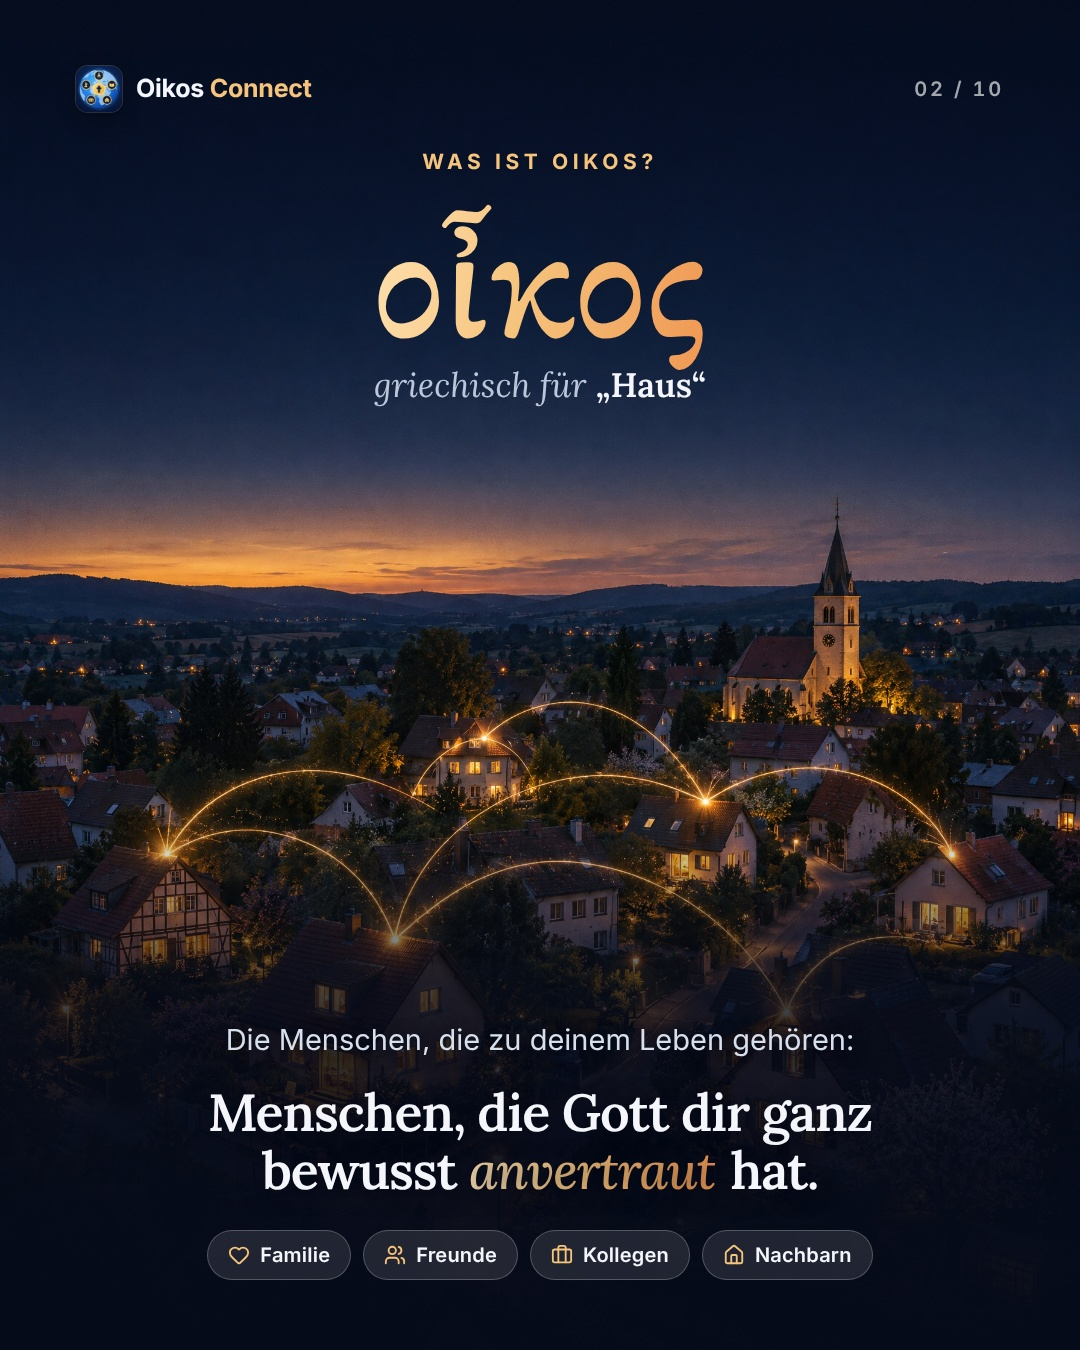
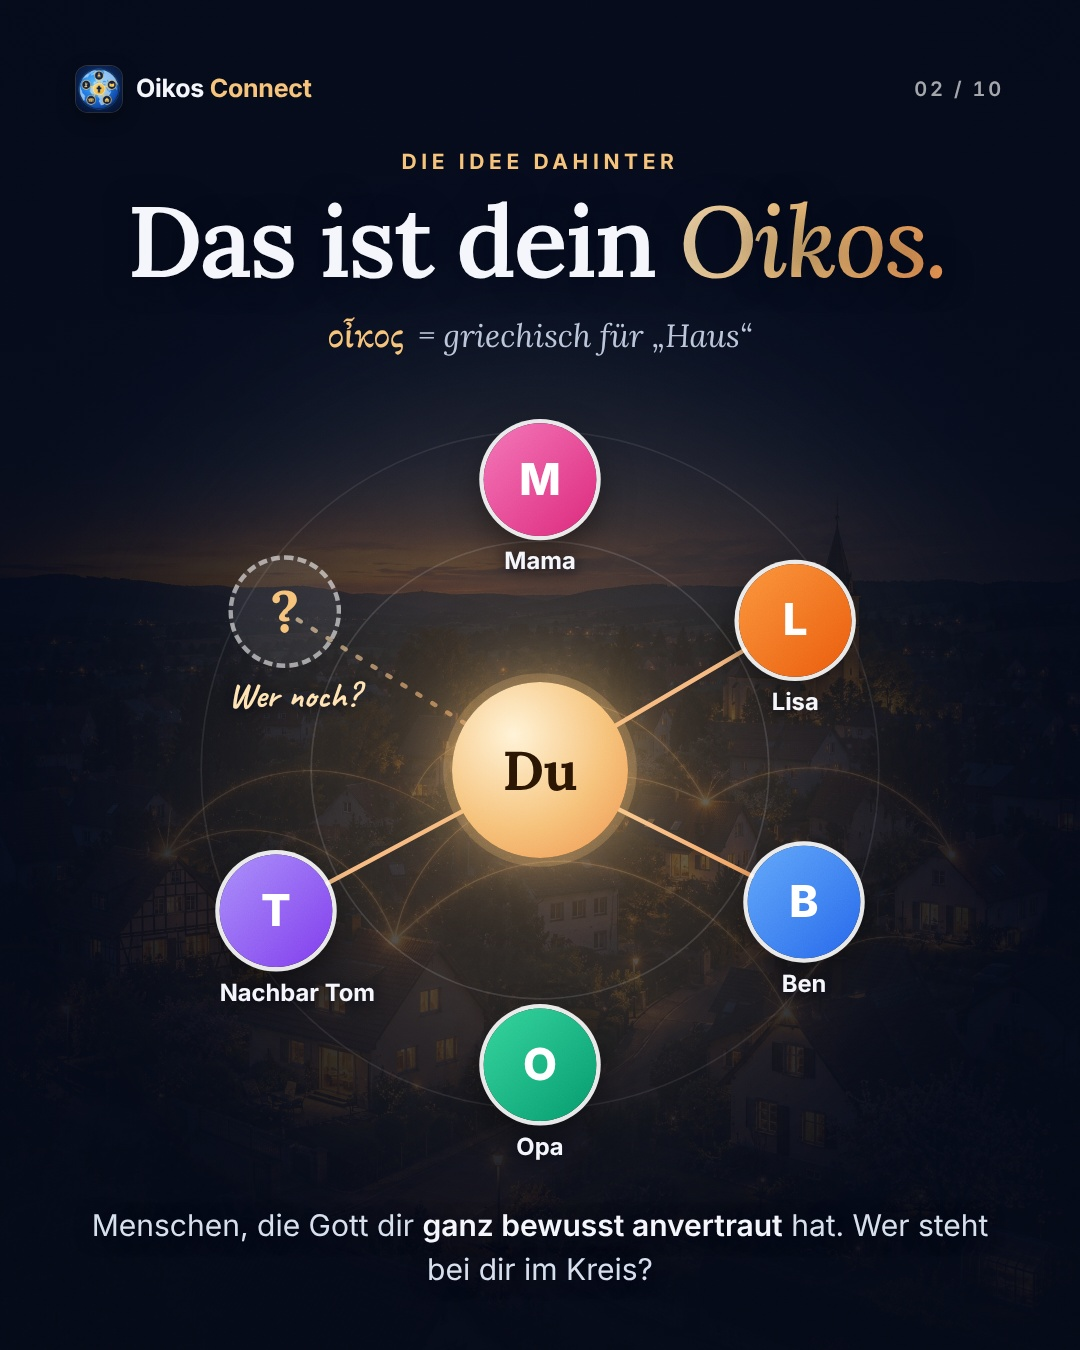
Post 001: neue Slides 1 und 2 (Hook-Frage und Mini-Oikos-Karte), Caption angepasst
Claude-Session: https://claude.ai/code/session_01JoDvWm4GYG7TTW7KF229oX

diff --git a/marketing/social/posts/001-launch/slides.html b/marketing/social/posts/001-launch/slides.html
@@ -7,37 +7,48 @@
 <script src="../../brand/icons.js"></script>
 <script src="../../brand/deck.js"></script>
 <style>
-  /* ═════════ Slide 1 · Hook ═════════ */
-  .s1 .shade { background: linear-gradient(180deg, rgba(5,10,24,.82) 0%, rgba(5,10,24,.5) 30%, rgba(5,10,24,0) 50%, rgba(5,10,24,0) 70%, rgba(5,10,24,.7) 100%); }
-  .s1 .content { position: absolute; left: var(--pad-x); right: var(--pad-x); top: 178px; }
-  .s1 .h1 { margin-top: 30px; font-size: 88px; }
-  [data-f="tt"] .s1 .content { top: 300px; }
-  [data-f="tt"] .s1 .h1 { font-size: 104px; margin-top: 36px; }
+  /* ═════════ Slide 1 · Hook (Frage, die man nicht überlesen kann) ═════════ */
+  .s1 .bg img { transform: translateY(170px) scale(1.1); transform-origin: 50% 100%; }
+  .s1 .shade { background: linear-gradient(180deg, rgba(5,10,24,.94) 0%, rgba(5,10,24,.78) 34%, rgba(5,10,24,.15) 58%, rgba(5,10,24,0) 70%, rgba(5,10,24,.75) 100%); }
+  .s1 .content { position: absolute; left: var(--pad-x); right: var(--pad-x); top: 168px; }
+  .s1 .tag { display: inline-flex; align-items: center; gap: 12px; height: 56px; padding: 0 26px; border-radius: 999px; background: linear-gradient(100deg, var(--gold-light), var(--gold) 50%, var(--gold-2)); color: #2a1503; font-weight: 800; font-size: 24px; letter-spacing: .08em; text-transform: uppercase; transform: rotate(-2deg); box-shadow: 0 14px 40px rgba(246,193,119,.35); }
+  .s1 .h1 { margin-top: 34px; font-size: 92px; line-height: 1.02; letter-spacing: -.028em; }
+  .s1 .h1 .mark { position: relative; white-space: nowrap; }
+  .s1 .h1 .mark::after { content: ''; position: absolute; left: -1%; right: -1%; bottom: .03em; height: .075em; border-radius: 99px; background: linear-gradient(90deg, var(--gold-light), var(--gold-2)); transform: rotate(-1.2deg); }
+  .s1 .side { margin-top: 30px; font-family: var(--hand); font-weight: 700; font-size: 52px; line-height: 1.05; color: var(--gold-light); transform: rotate(-2deg); transform-origin: left; text-shadow: 0 2px 24px rgba(3,8,22,.8); }
+  .s1 .swipe-big { position: absolute; z-index: 10; right: var(--pad-x); bottom: var(--safe-bottom); display: inline-flex; align-items: center; gap: 14px; height: 76px; padding: 0 20px 0 34px; border-radius: 999px; background: rgba(255,255,255,.96); color: #0b1330; font-weight: 800; font-size: 28px; box-shadow: 0 18px 50px rgba(0,0,0,.45); }
+  .s1 .swipe-big i { width: 48px; height: 48px; border-radius: 50%; background: var(--ink); color: var(--gold); font-size: 26px; }
+  [data-f="tt"] .s1 .bg img { transform: translateY(260px) scale(1.1); }
+  [data-f="tt"] .s1 .content { top: 290px; }
+  [data-f="tt"] .s1 .h1 { font-size: 106px; }
+  [data-f="tt"] .s1 .side { font-size: 58px; }
+  [data-f="tt"] .s1 .swipe-big { bottom: 430px; }
+  [data-f="tt"] .s1 .shade { background: linear-gradient(180deg, rgba(5,10,24,.94) 0%, rgba(5,10,24,.78) 36%, rgba(5,10,24,.1) 56%, rgba(5,10,24,0) 70%, rgba(5,10,24,.55) 100%); }
 
-  /* ═════════ Slide 2 · Was ist Oikos? ═════════ */
-  .s2 .bg img { object-position: center bottom; }
-  .s2 .shade { background:
-      linear-gradient(180deg, rgba(5,10,24,.7) 0%, rgba(5,10,24,.25) 32%, rgba(5,10,24,0) 42%, rgba(5,10,24,0) 60%, rgba(5,10,24,.78) 74%, rgba(5,10,24,.96) 90%, rgba(5,10,24,.98) 100%); }
-  .s2 .top { position: absolute; left: var(--pad-x); right: var(--pad-x); top: 150px; text-align: center; }
-  .s2 .greek { font-family: 'Greek Serif', var(--serif); font-weight: 500; font-size: 176px; line-height: 1.05; margin-top: 6px; }
-  .s2 .greek span { background: linear-gradient(100deg, var(--gold-light), var(--gold) 45%, var(--gold-2)); -webkit-background-clip: text; background-clip: text; color: transparent; padding: 0 .06em; }
-  .s2 .means { font-family: var(--serif); font-style: italic; font-size: 34px; color: var(--muted); margin-top: -2px; }
-  .s2 .means b { font-style: normal; color: var(--text); font-weight: 600; }
-  .s2 .bottom { position: absolute; left: var(--pad-x); right: var(--pad-x); bottom: 70px; text-align: center; }
-  .s2 .bottom .h2 { font-size: 52px; line-height: 1.12; }
-  .s2 .bottom .lead { margin-bottom: 22px; font-size: 29px; color: #d6deec; text-shadow: 0 2px 18px rgba(3,8,22,.9); }
-  .s2 .bottom .h2 { text-shadow: 0 2px 24px rgba(3,8,22,.8); }
-  .s2 .chips { display: flex; justify-content: center; gap: 12px; margin-top: 30px; flex-wrap: wrap; }
-  .s2 .chips .pill { height: 50px; font-size: 20px; padding: 0 20px; }
-  .s2 .chips .pill i { color: var(--gold); font-size: 22px; }
-  [data-f="tt"] .s2 .top { top: 290px; }
-  [data-f="tt"] .s2 .greek { font-size: 190px; }
-  [data-f="tt"] .s2 .means { font-size: 40px; }
-  [data-f="tt"] .s2 .bottom { bottom: auto; top: 640px; }
-  [data-f="tt"] .s2 .bottom .h2 { font-size: 60px; }
-  [data-f="tt"] .s2 .bottom .lead { font-size: 33px; }
-  [data-f="tt"] .s2 .shade { background:
-      linear-gradient(180deg, rgba(5,10,24,.8) 0%, rgba(5,10,24,.55) 38%, rgba(5,10,24,.5) 46%, rgba(5,10,24,0) 56%, rgba(5,10,24,0) 76%, rgba(5,10,24,.55) 100%); }
+  /* ═════════ Slide 2 · Dein Oikos (Mini-Karte mit Namen) ═════════ */
+  .s2 .bg img { object-position: center bottom; opacity: .5; }
+  .s2 .shade { background: radial-gradient(70% 55% at 50% 52%, rgba(5,10,24,.35), rgba(5,10,24,.9) 75%); }
+  .s2 .glow.gold { width: 900px; height: 900px; left: 90px; top: 320px; opacity: .55; }
+  .s2 .head { position: absolute; z-index: 6; left: var(--pad-x); right: var(--pad-x); top: 150px; text-align: center; }
+  .s2 .head .h1 { font-size: 100px; margin-top: 14px; }
+  .s2 .head .greek-line { margin-top: 14px; font-family: var(--serif); font-style: italic; font-size: 32px; color: var(--muted); }
+  .s2 .head .greek-line b { font-family: 'Greek Serif', var(--serif); font-style: normal; font-weight: 500; font-size: 40px; color: var(--gold); padding-right: 6px; }
+  .s2 .map { position: absolute; z-index: 5; left: 110px; top: 340px; width: 860px; height: 860px; transform: scale(.88); transform-origin: 50% 50%; }
+  .s2 .map svg { position: absolute; inset: 0; overflow: visible; }
+  .s2 .you { position: absolute; left: 50%; top: 50%; width: 200px; height: 200px; margin: -100px 0 0 -100px; border-radius: 50%; display: grid; place-items: center; font-family: var(--serif); font-weight: 700; font-size: 62px; color: #2a1503; background: radial-gradient(circle at 35% 30%, #fff3d6, var(--gold) 55%, var(--gold-2)); box-shadow: 0 0 0 10px rgba(246,193,119,.22), 0 0 90px rgba(246,193,119,.65); }
+  .s2 .node { position: absolute; width: 128px; margin-left: -64px; margin-top: -64px; text-align: center; }
+  .s2 .node .av { width: 128px; height: 128px; border-radius: 50%; display: grid; place-items: center; font-weight: 800; font-size: 50px; color: #fff; box-shadow: 0 0 0 5px rgba(255,255,255,.9), 0 16px 40px rgba(0,0,0,.5); }
+  .s2 .node .nm { margin-top: 12px; font-size: 27px; font-weight: 700; white-space: nowrap; text-shadow: 0 2px 16px rgba(3,8,22,.95); }
+  .s2 .node.empty .av { background: rgba(255,255,255,.07); box-shadow: none; border: 5px dashed rgba(255,255,255,.55); color: var(--gold); font-size: 66px; font-family: var(--serif); }
+  .s2 .node.empty .nm { color: var(--gold-light); font-family: var(--hand); font-size: 40px; font-weight: 700; margin-top: 6px; }
+  .s2 .foot-note { position: absolute; z-index: 6; left: var(--pad-x); right: var(--pad-x); bottom: 58px; text-align: center; }
+  .s2 .foot-note .lead { font-size: 30px; color: #d6deec; text-shadow: 0 2px 18px rgba(3,8,22,.9); }
+  [data-f="tt"] .s2 .head { top: 290px; }
+  [data-f="tt"] .s2 .head .h1 { font-size: 108px; }
+  [data-f="tt"] .s2 .map { top: 530px; }
+  [data-f="tt"] .s2 .glow.gold { top: 510px; }
+  [data-f="tt"] .s2 .foot-note { bottom: auto; top: 1440px; }
+  [data-f="tt"] .s2 .foot-note .lead { font-size: 32px; }
 
   /* ═════════ Feature-Slides: gemeinsamer Hintergrund ═════════ */
   .feat .bg img { object-position: center bottom; opacity: .95; }
@@ -189,38 +200,50 @@
     <span class="counter"></span>
   </header>
   <div class="content">
-    <span class="pill"><span class="dot"></span>Neu · Jetzt im App Store</span>
-    <h1 class="h1 shadow-text">Was, wenn dein Gebet eine <em>Bewegung</em> startet?</h1>
+    <span class="tag"><i data-icon="sparkles"></i>Ehrliche Frage</span>
+    <h1 class="h1 shadow-text">Wann hast du zuletzt für jemanden <span class="mark"><em>mit Namen</em></span> gebetet?</h1>
+    <p class="side">Und nein, „für alle“ zählt nicht 😉</p>
   </div>
-  <footer class="foot">
-    <span>oikosconnect.net</span>
-    <span class="swipe">Wisch weiter <i data-icon="arrow-right" data-stroke="2.4"></i></span>
-  </footer>
+  <span class="swipe-big">Die Antwort <i data-icon="arrow-right" data-stroke="2.6"></i></span>
   <div class="grain"></div>
 </section>
 
-<!-- 2 · WAS IST OIKOS ────────────────────────────────── -->
+<!-- 2 · DEIN OIKOS ───────────────────────────────────── -->
 <section class="slide s2">
   <div class="bg"><img data-src="../../assets/photos/oikos-houses-{r}.jpg" alt=""></div>
   <div class="shade"></div>
+  <div class="glow gold"></div>
   <header class="brandbar">
     <div class="brand"><img src="../../brand/app-icon.png" alt=""><span>Oikos <b>Connect</b></span></div>
     <span class="counter"></span>
   </header>
-  <div class="top">
-    <span class="eyebrow center">Was ist Oikos?</span>
-    <div class="greek"><span>οἶκος</span></div>
-    <p class="means">griechisch für <b>„Haus“</b></p>
+  <div class="head">
+    <span class="eyebrow center">Die Idee dahinter</span>
+    <h1 class="h1 shadow-text">Das ist dein <em>Oikos.</em></h1>
+    <p class="greek-line"><b>οἶκος</b> = griechisch für „Haus“</p>
   </div>
-  <div class="bottom">
-    <p class="lead">Die Menschen, die zu deinem Leben gehören:</p>
-    <h2 class="h2">Menschen, die Gott dir ganz bewusst <em>anvertraut</em> hat.</h2>
-    <div class="chips">
-      <span class="pill"><i data-icon="heart"></i>Familie</span>
-      <span class="pill"><i data-icon="users"></i>Freunde</span>
-      <span class="pill"><i data-icon="briefcase"></i>Kollegen</span>
-      <span class="pill"><i data-icon="house"></i>Nachbarn</span>
-    </div>
+  <div class="map">
+    <svg viewBox="0 0 860 860" aria-hidden="true">
+      <defs><linearGradient id="g" x1="0" y1="0" x2="1" y2="1"><stop offset="0" stop-color="#ffe2b0"/><stop offset="1" stop-color="#ef8f4c"/></linearGradient></defs>
+      <circle cx="430" cy="430" r="260" fill="none" stroke="rgba(255,255,255,.12)" stroke-width="2"/>
+      <circle cx="430" cy="430" r="385" fill="none" stroke="rgba(255,255,255,.08)" stroke-width="2"/>
+      <line x1="430" y1="430" x2="430" y2="100" stroke="url(#g)" stroke-width="5" stroke-linecap="round" />
+      <line x1="430" y1="430" x2="720" y2="260" stroke="url(#g)" stroke-width="5" stroke-linecap="round" />
+      <line x1="430" y1="430" x2="730" y2="580" stroke="url(#g)" stroke-width="5" stroke-linecap="round" />
+      <line x1="430" y1="430" x2="430" y2="765" stroke="url(#g)" stroke-width="5" stroke-linecap="round" />
+      <line x1="430" y1="430" x2="130" y2="590" stroke="url(#g)" stroke-width="5" stroke-linecap="round" />
+      <line x1="430" y1="430" x2="140" y2="250" stroke="url(#g)" stroke-width="5" stroke-linecap="round" stroke-dasharray="4 16" opacity=".6"/>
+    </svg>
+    <div class="you">Du</div>
+    <div class="node " style="left:430px;top:100px"><div class="av" style="background:linear-gradient(135deg,#f472b6,#db2777)">M</div><div class="nm">Mama</div></div>
+    <div class="node " style="left:720px;top:260px"><div class="av" style="background:linear-gradient(135deg,#fb923c,#ea580c)">L</div><div class="nm">Lisa</div></div>
+    <div class="node " style="left:730px;top:580px"><div class="av" style="background:linear-gradient(135deg,#60a5fa,#2563eb)">B</div><div class="nm">Ben</div></div>
+    <div class="node " style="left:430px;top:765px"><div class="av" style="background:linear-gradient(135deg,#34d399,#059669)">O</div><div class="nm">Opa</div></div>
+    <div class="node " style="left:130px;top:590px"><div class="av" style="background:linear-gradient(135deg,#a78bfa,#7c3aed)">T</div><div class="nm">Nachbar Tom</div></div>
+    <div class="node empty" style="left:140px;top:250px"><div class="av" style="">?</div><div class="nm">Wer noch?</div></div>
+  </div>
+  <div class="foot-note">
+    <p class="lead">Menschen, die Gott dir <b>ganz bewusst anvertraut</b> hat. Wer steht bei dir im Kreis?</p>
   </div>
   <div class="grain"></div>
 </section>
